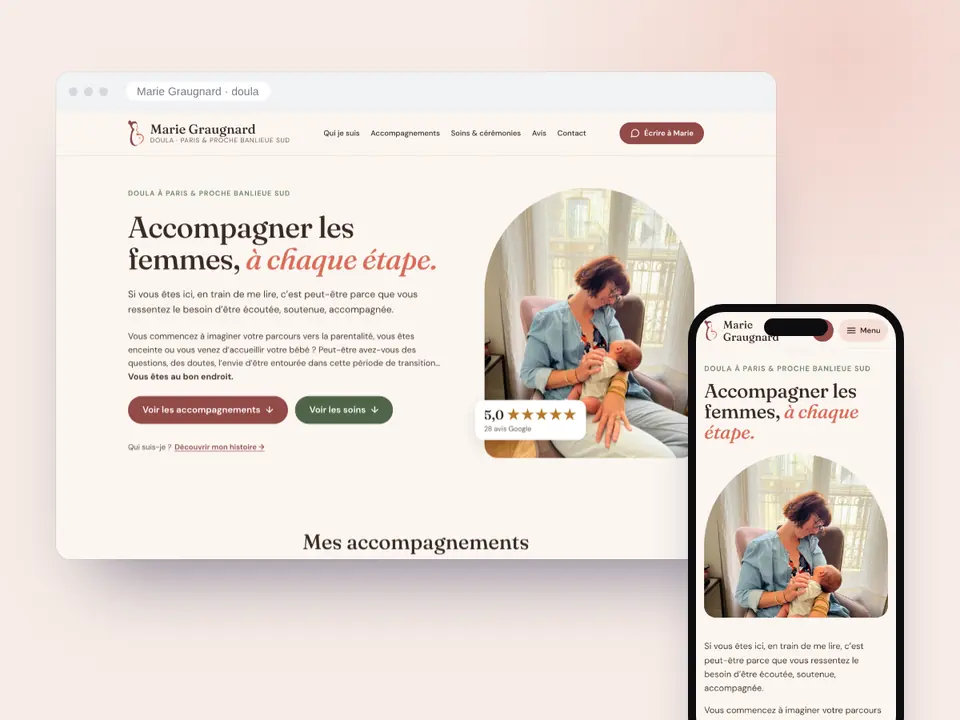
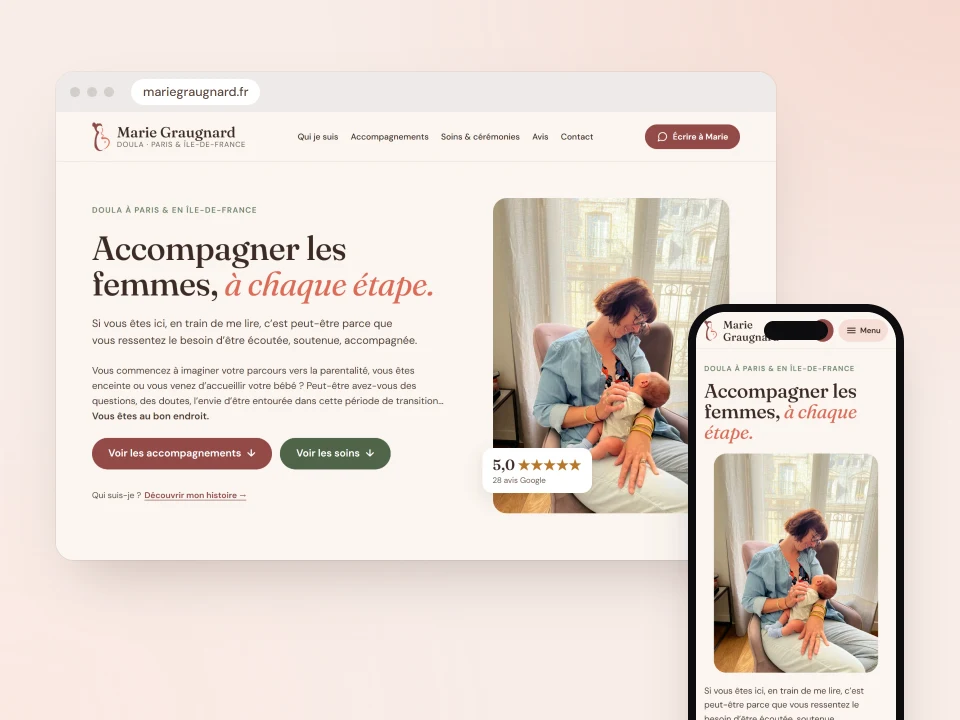
v133 : carte Marie vers mariegraugnard.fr et aperçu à jour
- Le lien de la carte Marie pointe vers son nom de domaine
- Aperçu refait d'après le site en ligne (Île-de-France, photo arrondie)

diff --git a/public/index.html b/public/index.html
@@ -760,7 +760,7 @@
         <h2>Ils m'ont fait confiance.</h2>
       </div>
       <div class="projets">
-        <a class="projet rv" href="https://marie-doula-site.aupropre-agency.workers.dev/" target="_blank" rel="noopener">
+        <a class="projet rv" href="https://mariegraugnard.fr/" target="_blank" rel="noopener">
           <div class="projet-img"><img src="/images/marie-doula.webp" alt="Le site de Marie Graugnard, doula à Paris" width="960" height="720" loading="lazy" decoding="async"></div>
           <h3>Marie, doula <span>Voir le site ↗</span></h3>
           <p>Site vitrine · d'un vieux Wix à un site qui rassure</p>
